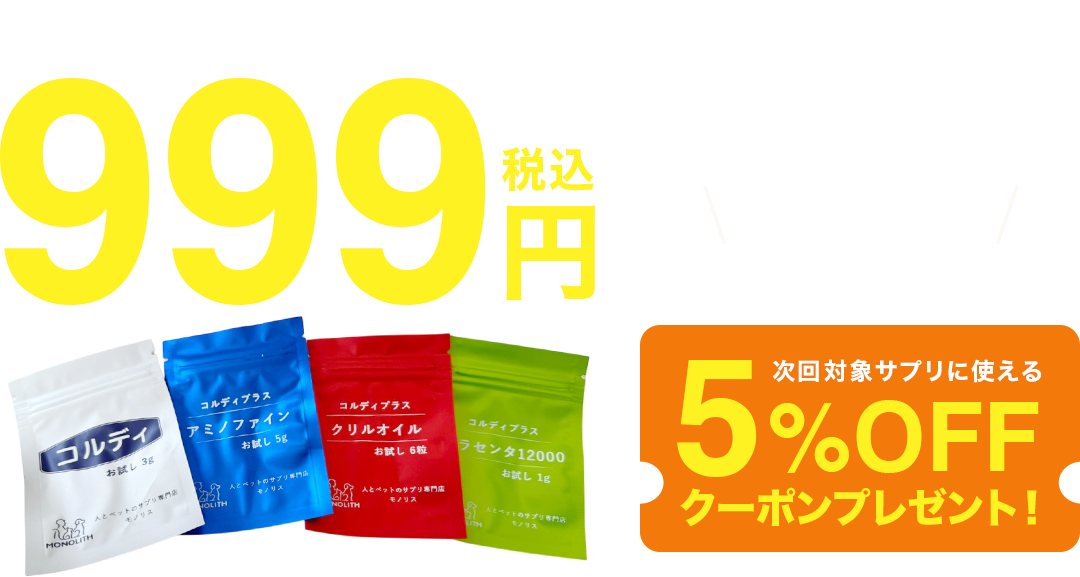
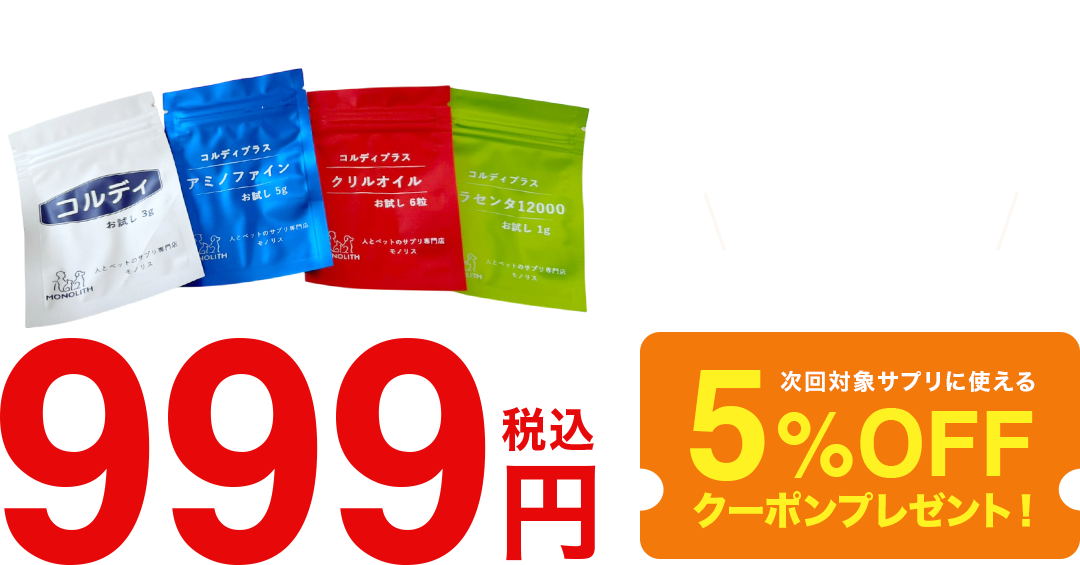
FV載せる画像（下）を最新版に差し替え

diff --git a/index.html b/index.html
@@ -767,7 +767,7 @@ section[id],header[id]{scroll-margin-top:62px}
       <img src="img/fv-168600257.jpg" alt="飼い主さんの腕の中でくつろぐ猫">
       <span class="fv-scrim" aria-hidden="true"></span>
       <h1 class="fv-h1"><span class="sr">これからも、一緒に元気な毎日を。お試しサプリ4点セット999円（税込）。さらに！お試し4点セット購入で次回対象サプリに使える5%OFFクーポンプレゼント！</span></h1>
-      <a class="fv-over" href="#items" aria-label="お試し4点セットへ"><img class="fv-top" src="img/fv-top.png?v=1" alt=""><img class="fv-bot" src="img/fv-bottom.png?v=1" alt=""></a>
+      <a class="fv-over" href="#items" aria-label="お試し4点セットへ"><img class="fv-top" src="img/fv-top.png?v=1" alt=""><img class="fv-bot" src="img/fv-bottom.png?v=2" alt=""></a>
     </div>
   </div>
   <div class="fv-under">
